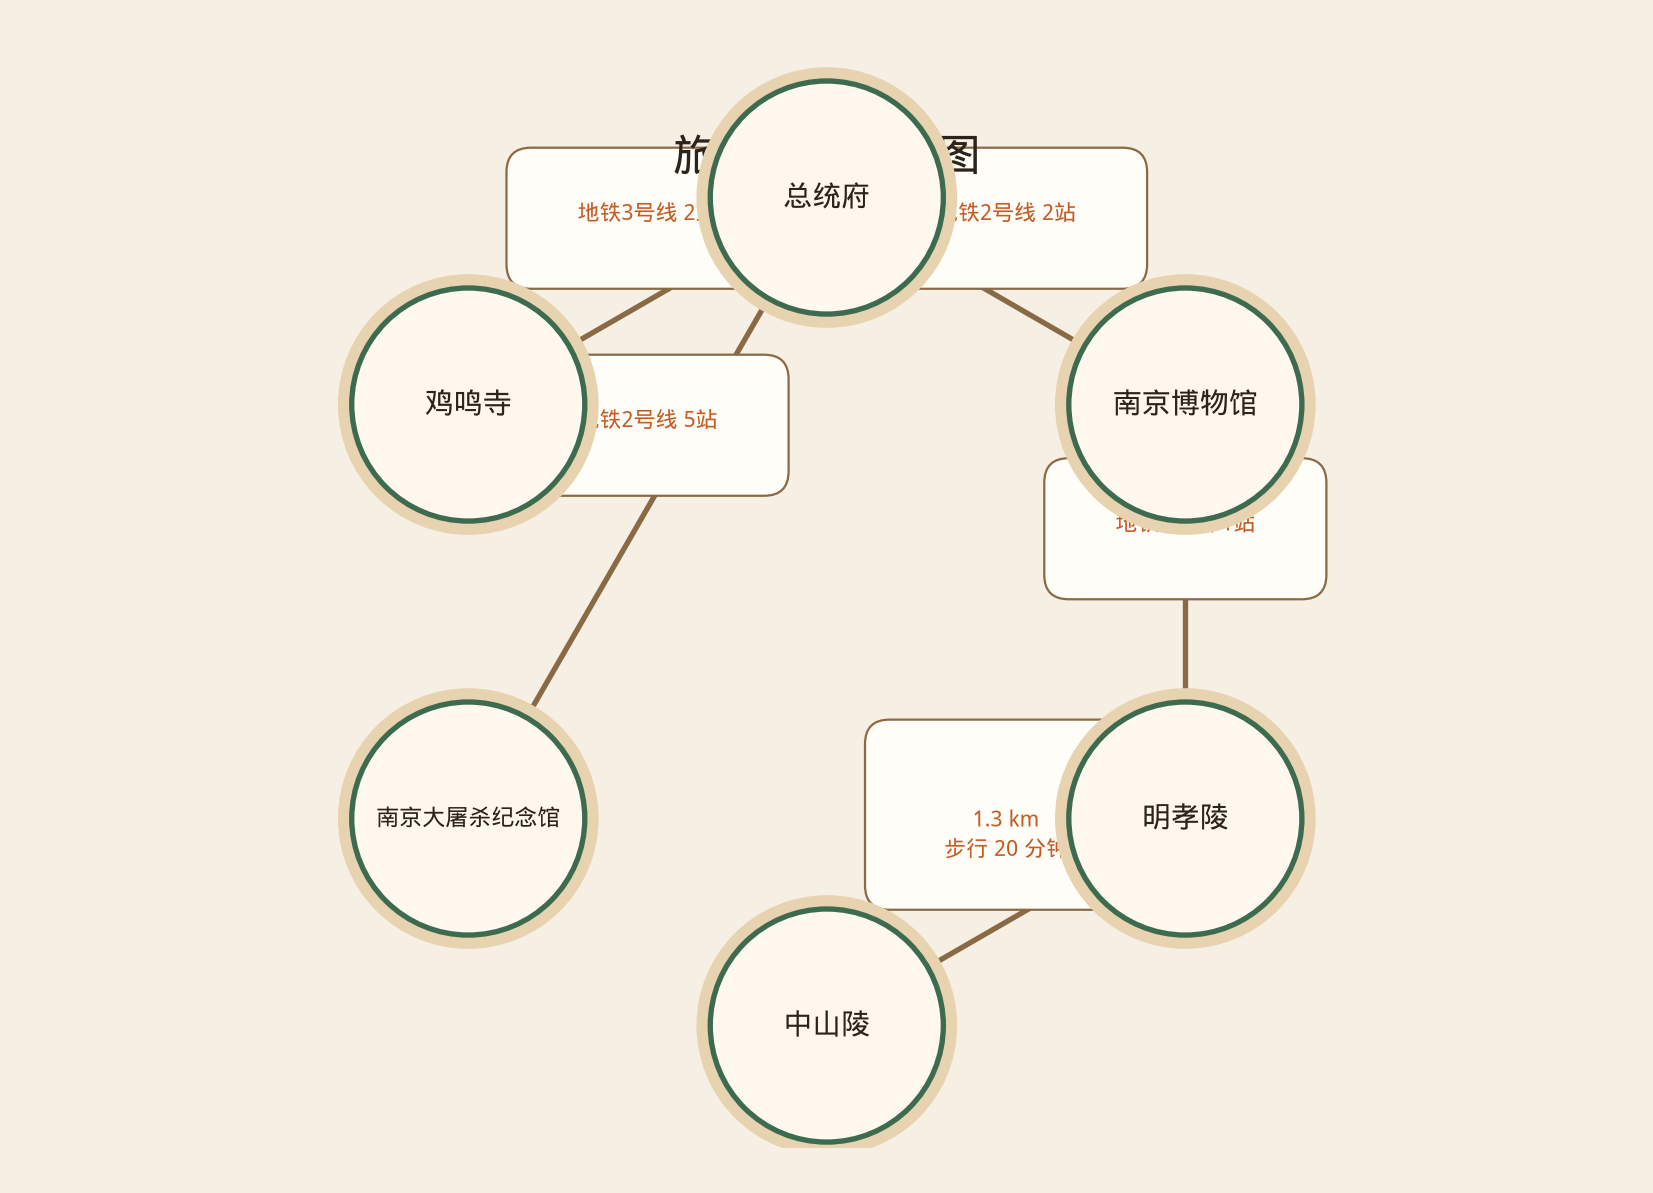
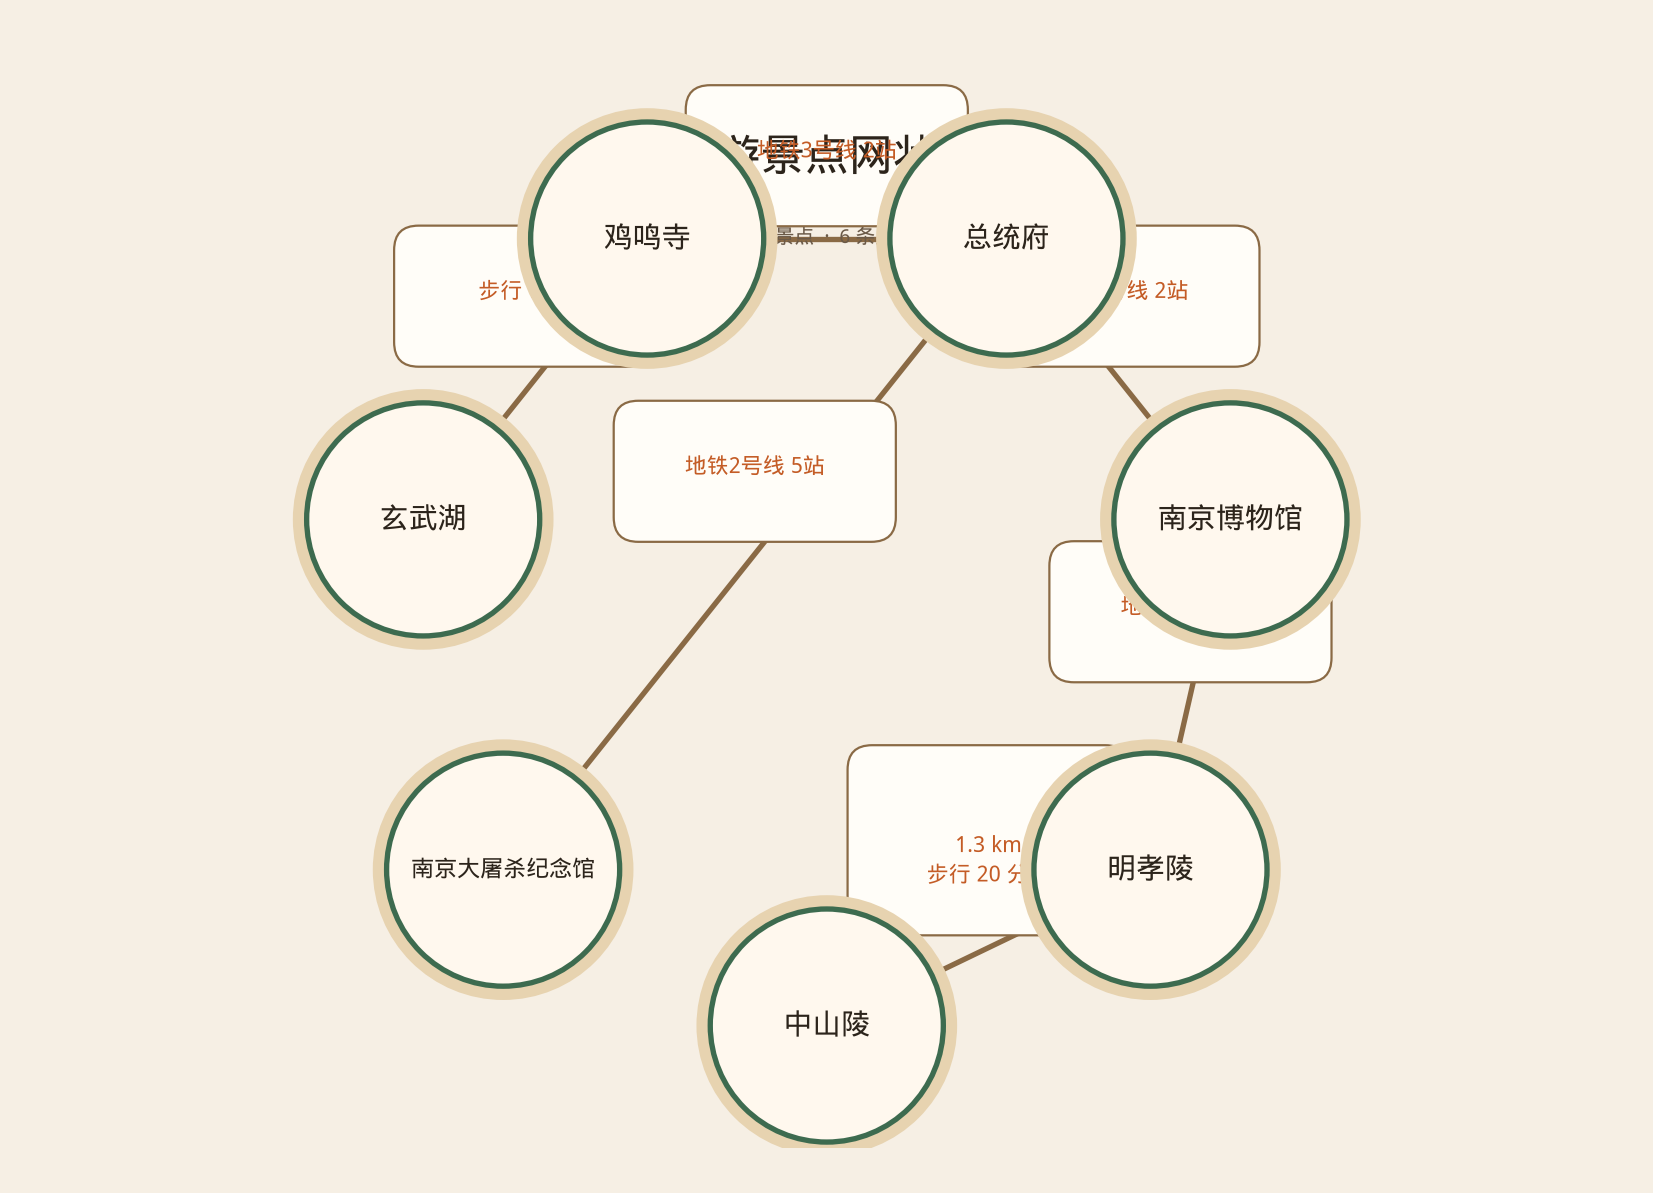
Add Xuanwu Lake with 700m walk from Jiming Temple.
Add 玄武湖 connected to 鸡鸣寺 by a 700-meter walk, and support meter-based walk labels on edges.

diff --git a/attraction_network/index.html b/attraction_network/index.html
@@ -70,6 +70,7 @@
     {"id": "nanjing_museum", "name": "南京博物馆", "city": "南京"},
     {"id": "presidential_palace", "name": "总统府", "city": "南京"},
     {"id": "jimingsi", "name": "鸡鸣寺", "city": "南京"},
+    {"id": "xuanwu_lake", "name": "玄武湖", "city": "南京"},
     {"id": "massacre_memorial", "name": "南京大屠杀纪念馆", "city": "南京"}
   ],
   "edges": [
@@ -107,6 +108,12 @@
       "mode": "地铁",
       "metro_line": "3号线",
       "stations": 2
+    },
+    {
+      "from": "jimingsi",
+      "to": "xuanwu_lake",
+      "mode": "步行",
+      "distance_m": 700
     }
   ]
 }
@@ -142,14 +149,19 @@
 
     function edgeLabel(edge) {
       const lines = [];
-      if (edge.distance_km != null) lines.push(`${edge.distance_km} km`);
+      const mode = edge.mode ?? "";
+      if (edge.distance_m != null) {
+        lines.push(`${mode} ${edge.distance_m} 米`);
+      } else if (edge.distance_km != null) {
+        lines.push(`${edge.distance_km} km`);
+      }
       if (edge.metro_line != null) {
-        let text = `${edge.mode}${edge.metro_line}`;
+        let text = `${mode}${edge.metro_line}`;
         if (edge.stations != null) text += ` ${edge.stations}站`;
         lines.push(text);
-      } else {
+      } else if (edge.distance_m == null) {
         const minutes = edge.minutes ?? edge.walk_minutes;
-        if (minutes != null) lines.push(`${edge.mode} ${minutes} 分钟`);
+        if (minutes != null) lines.push(`${mode} ${minutes} 分钟`);
       }
       return lines;
     }

diff --git a/attraction_network/render_graph.py b/attraction_network/render_graph.py
@@ -31,15 +31,17 @@ def load_data() -> dict:
 
 def edge_label(edge: dict) -> str:
     lines: list[str] = []
-    if edge.get("distance_km") is not None:
-        lines.append(f"{edge['distance_km']} km")
     mode = edge.get("mode", "")
+    if edge.get("distance_m") is not None:
+        lines.append(f"{mode} {edge['distance_m']} 米")
+    elif edge.get("distance_km") is not None:
+        lines.append(f"{edge['distance_km']} km")
     if edge.get("metro_line") is not None:
         text = f"{mode}{edge['metro_line']}"
         if edge.get("stations") is not None:
             text += f" {edge['stations']}站"
         lines.append(text)
-    else:
+    elif edge.get("distance_m") is None:
         minutes = edge.get("minutes", edge.get("walk_minutes"))
         if minutes is not None:
             lines.append(f"{mode} {minutes} 分钟")
